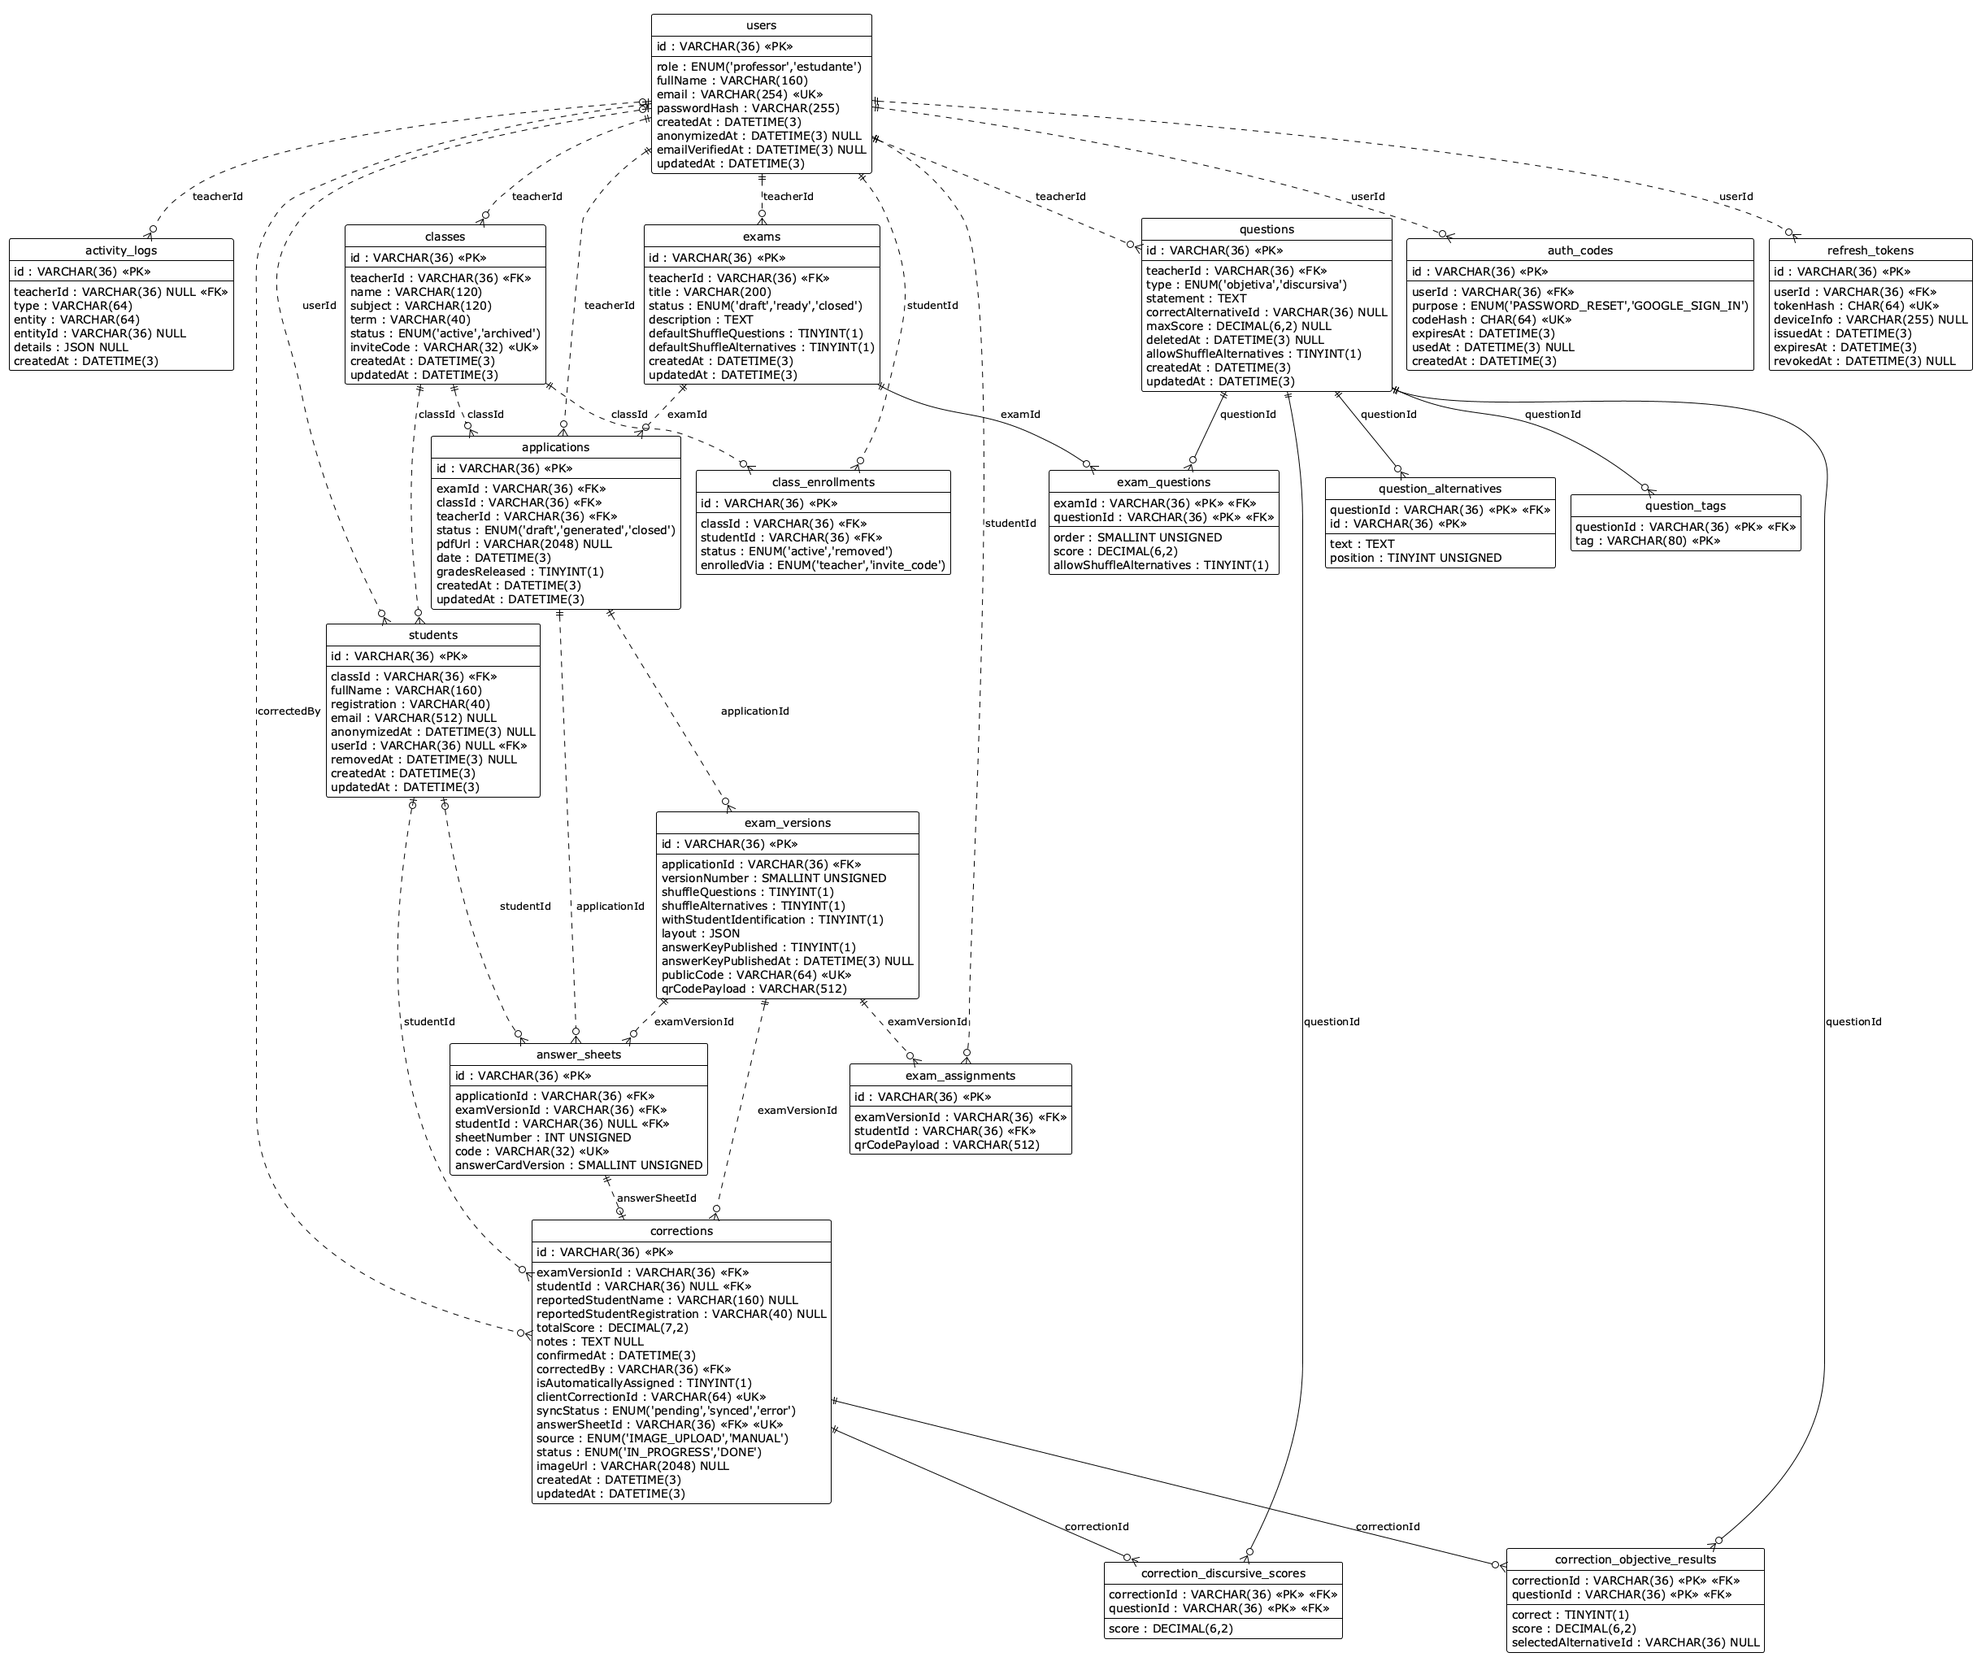
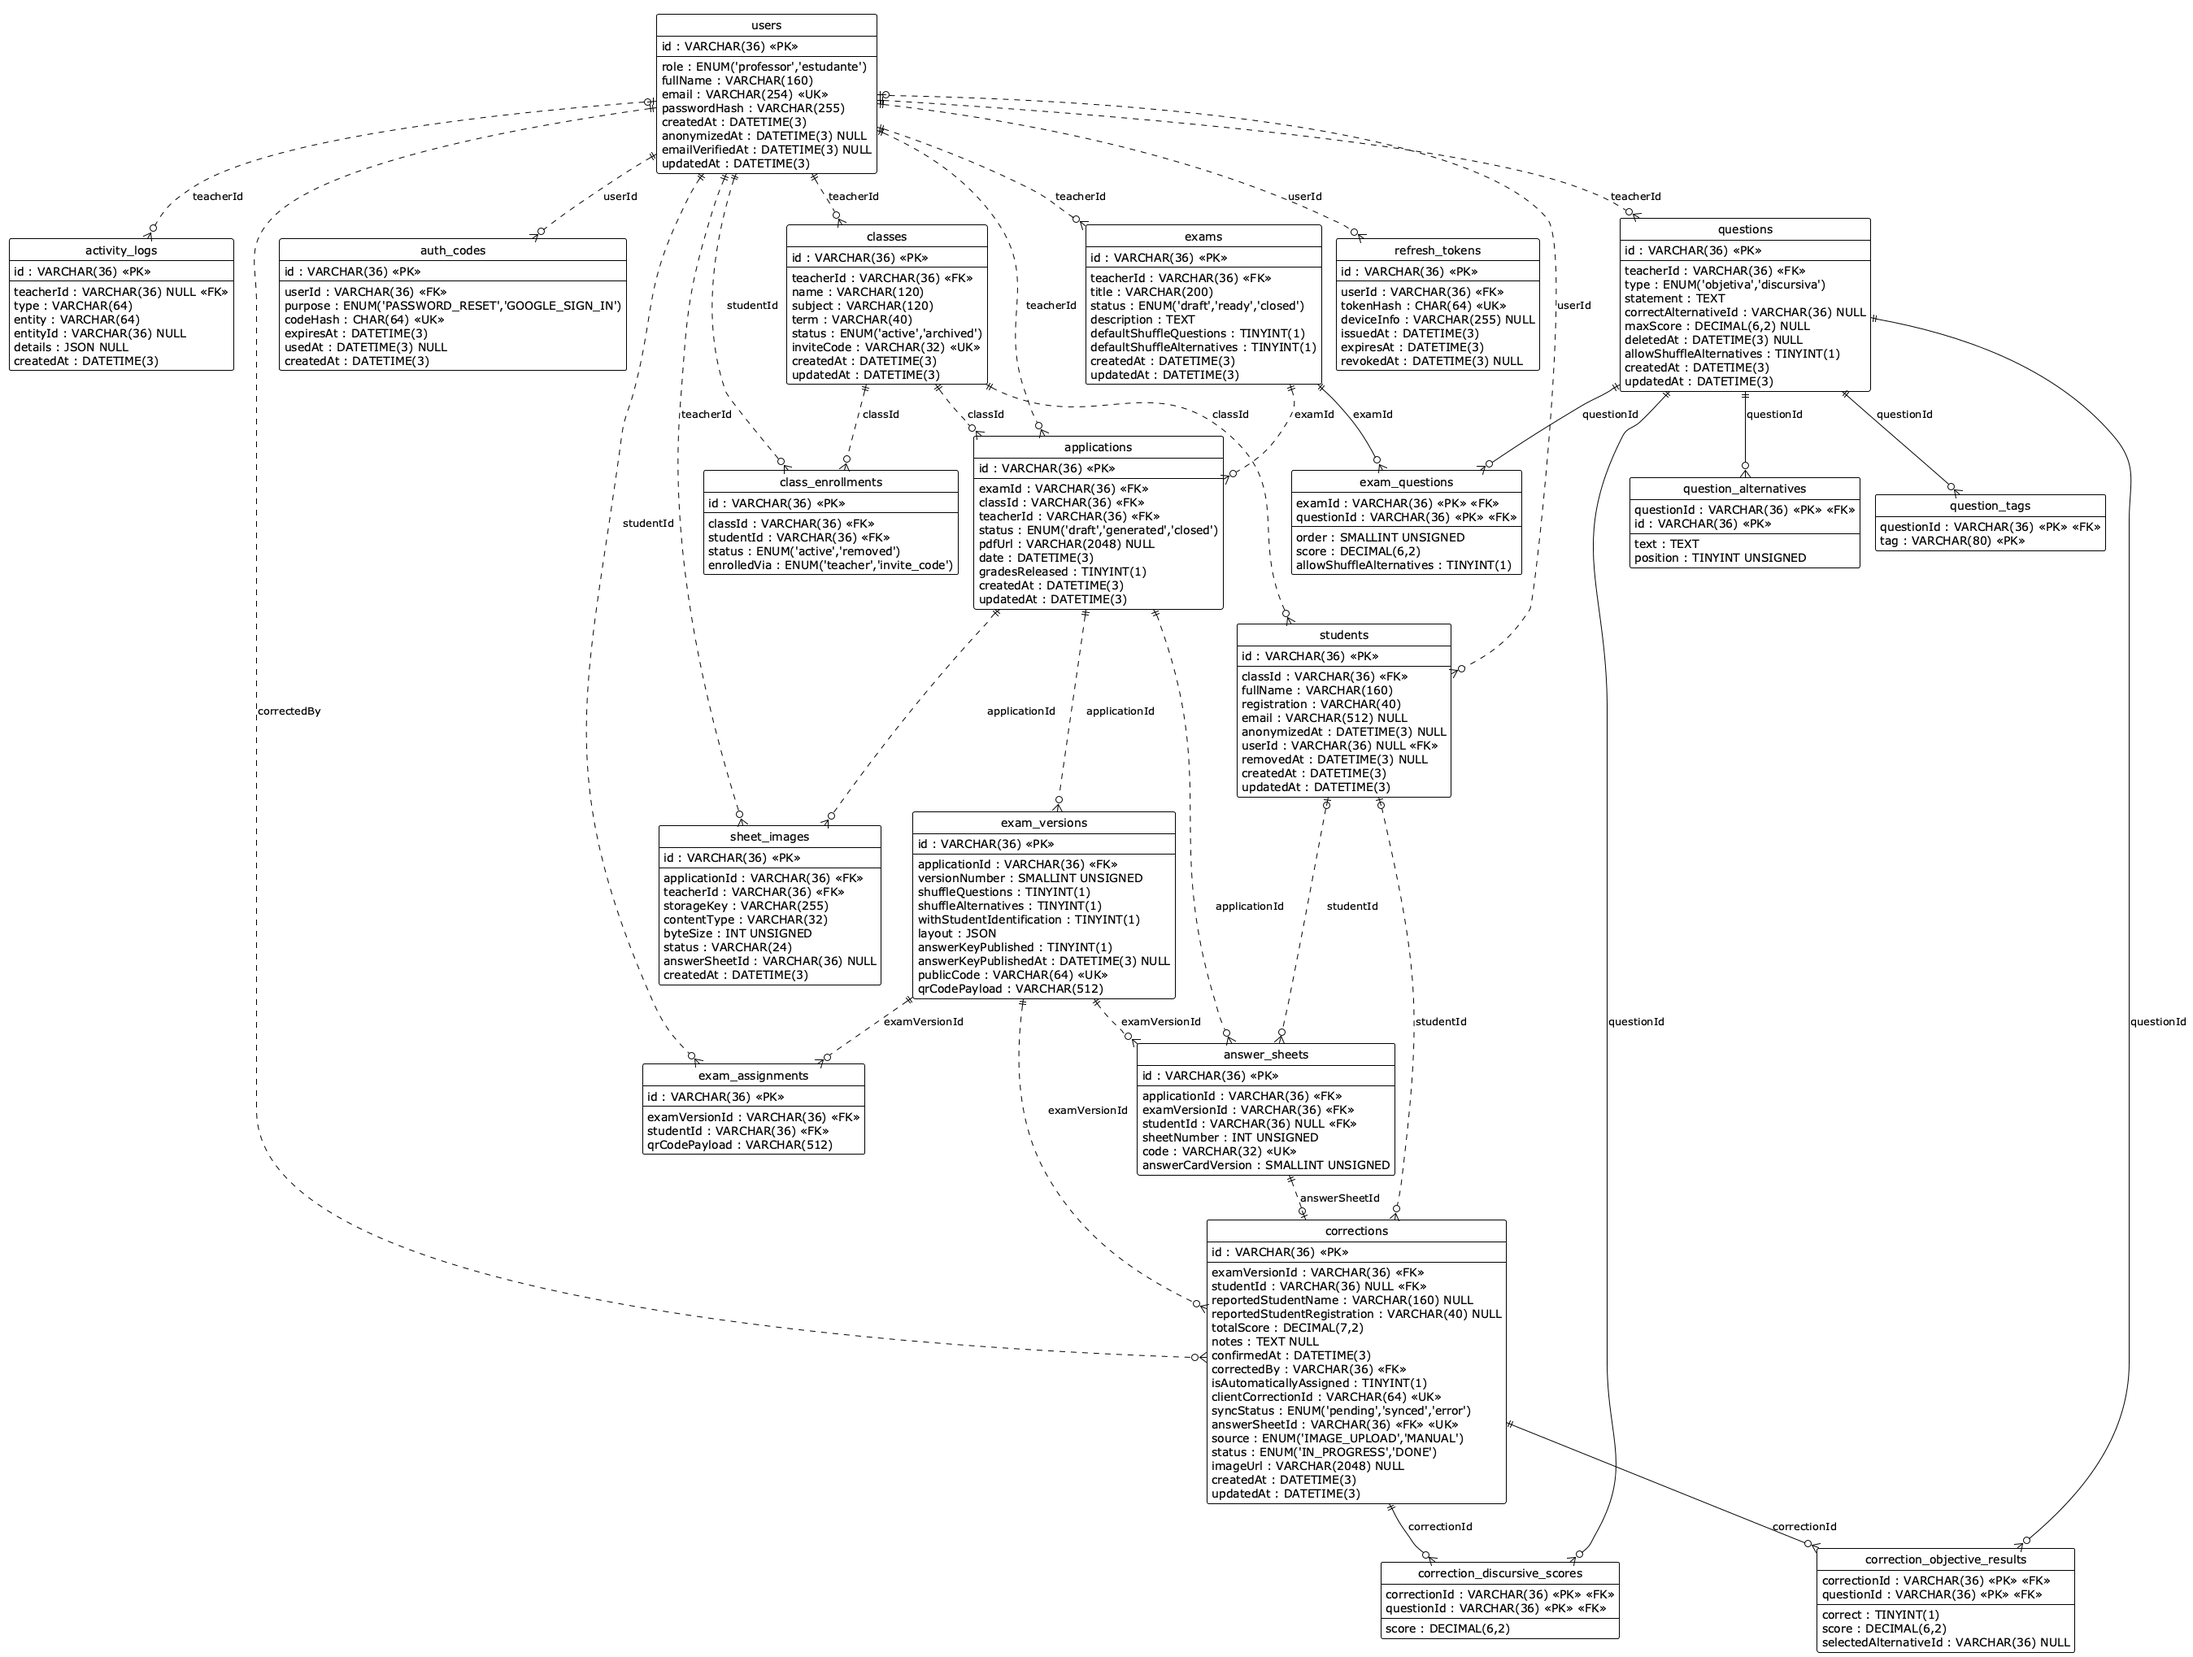
docs: sheet_images in the ER diagram and the data dictionary

diff --git a/docs/data-model/data-dictionary.md b/docs/data-model/data-dictionary.md
@@ -1,7 +1,7 @@
 # Dicionário de dados
 
 Uma tabela por entidade do banco MySQL, com as colunas **como as migrations as criam**
-(`apps/api/src/db/migrations`, da `0001` à `0003`). O desenho das mesmas tabelas está no
+(`apps/api/src/db/migrations`, da `0001` à `0004`). O desenho das mesmas tabelas está no
 [diagrama entidade-relacionamento](er-diagram.md); o contrato que elas seguem é o
 [Modelo de Dados](../Modelo_de_Dados.md).
 
@@ -48,6 +48,7 @@ que falta ou que sobra (ver [Como gerar de novo](er-diagram.md#como-gerar-de-nov
 | [`correction_objective_results`](#correction_objective_results--correctionobjectiveresults) | `Correction.objectiveResults` | tabela filha | segue a correção |
 | [`correction_discursive_scores`](#correction_discursive_scores--correctiondiscursivescores) | `Correction.discursiveScores` | tabela filha | segue a correção |
 | [`activity_logs`](#activity_logs--activitylog) | `ActivityLog` | **+** grupo | não arquiva: só recebe inserção |
+| [`sheet_images`](#sheet_images--sheetimage) | `SheetImage` | **+** grupo (#47) | não arquiva: só recebe inserção |
 
 As tabelas internas do Kysely (`kysely_migration` e `kysely_migration_lock`), que registram quais
 migrations já rodaram, não fazem parte do modelo e ficam fora daqui e do diagrama.
@@ -394,8 +395,8 @@ guarda o conteúdo de dado pessoal.**
 |---|---|---|---|---|
 | `id` | `VARCHAR(36)` | PK | não | Identificador do evento (UUID). |
 | `teacherId` | `VARCHAR(36)` | FK → `users.id` | sim | Professor envolvido. Vazio em evento do sistema. |
-| `type` | `VARCHAR(64)` | | não | Tipo do evento, em `SCREAMING_SNAKE_CASE`, como `QR_NOT_RECOGNIZED`. |
-| `entity` | `VARCHAR(64)` | | não | Tabela do registro envolvido, como `answer_sheet`. |
+| `type` | `VARCHAR(64)` | | não | Tipo do evento, em `SCREAMING_SNAKE_CASE`, como `SHEET_READ_FAILED` (a leitura de uma foto que falhou, #47). |
+| `entity` | `VARCHAR(64)` | | não | Registro envolvido, como `application`. |
 | `entityId` | `VARCHAR(36)` | | sim | Identificador do registro envolvido. |
 | `details` | `JSON` | | sim | Referência e motivo do evento, sem dado pessoal. Objeto livre. |
 | `createdAt` | `DATETIME(3)` | | não | Quando o evento aconteceu. Padrão: a hora da inserção. |
@@ -403,3 +404,31 @@ guarda o conteúdo de dado pessoal.**
 **Índice:** `idx_activity_logs_teacher_created (teacherId, createdAt)`, os eventos do professor
 em ordem de tempo.<br>
 **Arquivamento:** não arquiva; o log só recebe inserção.
+
+---
+
+### `sheet_images` — SheetImage
+
+**+** Entidade do grupo (#47): uma linha por foto de folha enviada para correção. O arquivo fica
+no Cloud Storage ([ADR-004](../adr/ADR-004-answer-sheet-image-storage.md)), e a linha guarda onde
+ele está e como a leitura terminou. É ela que deixa a foto ser servida só ao professor dono, a
+correção apontar a foto de que foi confirmada (`corrections.imageUrl`) e o limite diário de envios
+ser contado mesmo depois de a API reiniciar ([Seguranca_e_LGPD.md](../Seguranca_e_LGPD.md)).
+
+| Coluna | Tipo | Chave | Nulo | Descrição |
+|---|---|---|---|---|
+| `id` | `VARCHAR(36)` | PK | não | Identificador da foto (UUID), o `imageId` que a API devolve na leitura. |
+| `applicationId` | `VARCHAR(36)` | FK → `applications.id` | não | Aplicação para a qual a foto foi enviada. |
+| `teacherId` | `VARCHAR(36)` | FK → `users.id` | não | Professor que enviou; só ele recebe a foto de volta. |
+| `storageKey` | `VARCHAR(255)` | | não | Caminho do arquivo no Storage: `answer-sheets/<aplicação>/<foto>.<extensão>`. |
+| `contentType` | `VARCHAR(32)` | | não | Tipo do arquivo, conferido pelos primeiros bytes: `image/jpeg`, `image/png` ou `image/webp`. |
+| `byteSize` | `INT UNSIGNED` | | não | Tamanho do arquivo em bytes, até 10 MB. Soma no limite diário. |
+| `status` | `VARCHAR(24)` | | não | Como a leitura terminou: `READ`, `QR_NOT_RECOGNIZED` ou `READ_FAILED` (`SHEET_READING`). |
+| `answerSheetId` | `VARCHAR(36)` | | sim | Folha reconhecida pelo QR Code. Vazio quando o QR não foi lido: o professor escolhe a folha na revisão (RF30). |
+| `createdAt` | `DATETIME(3)` | | não | Quando a foto chegou. Padrão: a hora da inserção. |
+
+**Índices:** `idx_sheet_images_teacher_created (teacherId, createdAt)`, que conta o limite diário
+do professor, e `idx_sheet_images_application (applicationId, createdAt)`, as fotos da aplicação
+em ordem de tempo.<br>
+**Arquivamento:** não arquiva; a linha só recebe inserção, e a leitura não vira nota até o
+professor confirmar a revisão (RF28).

diff --git a/docs/data-model/er-diagram.md b/docs/data-model/er-diagram.md
@@ -184,6 +184,17 @@ erDiagram
     DATETIME(3) expiresAt
     DATETIME(3) revokedAt "NULL"
   }
+  sheet_images {
+    VARCHAR(36) id PK
+    VARCHAR(36) applicationId FK
+    VARCHAR(36) teacherId FK
+    VARCHAR(255) storageKey
+    VARCHAR(32) contentType
+    INT_UNSIGNED byteSize
+    VARCHAR(24) status
+    VARCHAR(36) answerSheetId "NULL"
+    DATETIME(3) createdAt
+  }
   students {
     VARCHAR(36) id PK
     VARCHAR(36) classId FK
@@ -236,6 +247,8 @@ erDiagram
   questions ||--o{ question_tags : questionId
   users ||..o{ questions : teacherId
   users ||..o{ refresh_tokens : userId
+  applications ||..o{ sheet_images : applicationId
+  users ||..o{ sheet_images : teacherId
   classes ||..o{ students : classId
   users |o..o{ students : userId
 ```

diff --git a/readme.md b/readme.md
@@ -211,7 +211,7 @@ Cada decisão técnica importante tem um registro próprio em [`docs/adr/`](docs
 
 ## 🗃 Modelo de dados
 
-O banco MySQL da N2 como as migrations de `apps/api/src/db/migrations` o criam: 19 tabelas, com
+O banco MySQL da N2 como as migrations de `apps/api/src/db/migrations` o criam: 20 tabelas, com
 as colunas, os tipos e as chaves de cada uma. O diagrama é gerado do banco migrado
 (`npm run docs:er-diagram`), não desenhado à mão.
 
